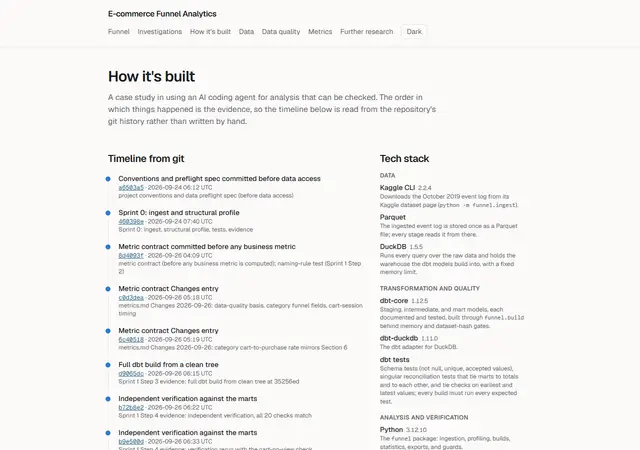
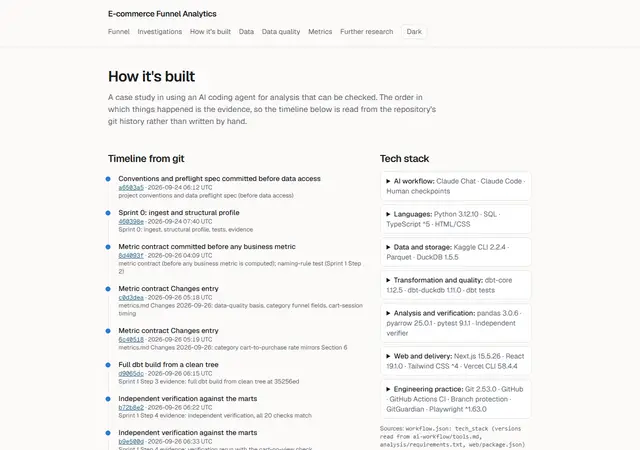
v1.1.5 (PR #21): compact tech-stack column (option b) and seven layers starting with the AI workflow
- one compact rendering at every width: each layer lists its tools with versions; roles on demand
- seven layers in the owner's order, plain names; React and Git added, Python under Languages
- README section regenerated to match; versions still read from their source files
- 1280 px: two columns, stack 594 px beside a timeline of 840 px, no own scroll, pinned while
  the page scrolls, light and dark; 390 px PASS; local smoke 51/51
- records: the owner's decision and verification; correction-log entry (a scratch layout check)

pytest: 234 passed (pytest_exit_code=0)

Changed region(s): [[0.5938, 0.3733, 0.8125, 1.0]]

diff --git a/web/app/how-its-built/page.tsx b/web/app/how-its-built/page.tsx
@@ -58,41 +58,25 @@ export default function HowItsBuiltPage() {
       {/* Owner decision v1.1.5: timeline left and tech stack right (sticky) on wide screens; on narrow screens one
           column, the stack first as a compact summary. Every item and version comes from workflow.json. */}
       <div className="grid gap-10 lg:grid-cols-[minmax(0,1fr)_minmax(0,19rem)] lg:gap-8">
-      <aside id="tech-stack" className="space-y-3 lg:sticky lg:top-6 lg:order-last lg:max-h-[calc(100vh-3rem)] lg:self-start lg:overflow-y-auto lg:pr-2" aria-labelledby="tech-stack-heading">
+      <aside id="tech-stack" className="space-y-3 lg:sticky lg:top-6 lg:order-last lg:self-start" aria-labelledby="tech-stack-heading">
         <h2 id="tech-stack-heading" className="text-xl font-semibold tracking-tight">Tech stack</h2>
-        {/* Narrow screens: one line per layer; roles on demand. */}
-        <div className="space-y-2 text-sm lg:hidden">
+        {/* Owner decision (PR #21, option (b)): one compact column at every width. Each layer lists its tools with
+            versions; each tool's role is available on demand. */}
+        <div className="space-y-2 text-sm">
           {record.tech_stack.groups.map((g) => (
             <details key={g.group} className="rounded-lg border border-line bg-surface px-3 py-2">
               <summary className="cursor-pointer [overflow-wrap:anywhere]">
                 <span className="font-medium">{g.group}:</span>{" "}
                 <span className="text-muted">
-                  {g.items.map((i) => (i.version ? `${i.name.replace(/`/g, "")} ${i.version}` : i.name.replace(/`/g, ""))).join(" · ")}
+                  {g.items.map((i) => (i.version ? `${i.name} ${i.version}` : i.name)).join(" · ")}
                 </span>
               </summary>
               <ul className="mt-2 space-y-1 text-xs text-muted">
                 {g.items.map((i) => (
-                  <li key={i.name}><span className="text-ink"><InlineText text={i.name} /></span>: <InlineText text={i.role} /></li>
+                  <li key={i.name}><span className="text-ink">{i.name}</span>: <InlineText text={i.role} /></li>
                 ))}
               </ul>
             </details>
-          ))}
-        </div>
-        {/* Wide screens: every item with its version and role. */}
-        <div className="hidden space-y-4 lg:block">
-          {record.tech_stack.groups.map((g) => (
-            <div key={g.group} className="space-y-1.5">
-              <h3 className="text-xs font-semibold uppercase tracking-wide text-muted">{g.group}</h3>
-              <ul className="space-y-1.5 text-sm">
-                {g.items.map((i) => (
-                  <li key={i.name}>
-                    <span className="font-medium"><InlineText text={i.name} /></span>
-                    {i.version && <span className="num ml-1.5 text-xs text-muted">{i.version}</span>}
-                    <div className="text-xs leading-snug text-muted"><InlineText text={i.role} /></div>
-                  </li>
-                ))}
-              </ul>
-            </div>
           ))}
         </div>
         <Sources fields={[`workflow.json: tech_stack (versions read from ${record.tech_stack.sources.join(", ")})`]} />

diff --git a/analysis/funnel/tech_stack.py b/analysis/funnel/tech_stack.py
@@ -26,50 +26,52 @@ README_START, README_END = "<!-- tech-stack:start -->", "<!-- tech-stack:end -->
 # (group, name, role, version source): the source is ("requirements", package), ("package.json", package), or
 # ("tools.md", the tool's row name), or None.
 STACK: tuple[tuple[str, str, str, tuple[str, str] | None], ...] = (
-    ("Data", "Kaggle CLI", "Downloads the October 2019 event log from its Kaggle dataset page (`python -m funnel.ingest`).",
-     ("requirements", "kaggle")),
-    ("Data", "Parquet", "The ingested event log is stored once as a Parquet file; every stage reads it from there.", None),
-    ("Data", "DuckDB", "Runs every query over the raw data and holds the warehouse the dbt models build into, with a "
-                       "fixed memory limit.", ("requirements", "duckdb")),
-    ("Transformation and quality", "dbt-core", "Staging, intermediate, and mart models, each documented and tested, "
-                                               "built through `funnel.build` behind memory and dataset-hash gates.",
-     ("requirements", "dbt-core")),
-    ("Transformation and quality", "dbt-duckdb", "The dbt adapter for DuckDB.", ("requirements", "dbt-duckdb")),
-    ("Transformation and quality", "dbt tests", "Schema tests (not null, unique, accepted values), singular "
-                                                "reconciliation tests that tie marts to totals and to each other, and "
-                                                "tie checks on earliest and latest values; every build must run every "
-                                                "expected test.", None),
-    ("Analysis and verification", "Python", "The `funnel` package: ingestion, profiling, builds, statistics, exports, "
-                                            "and guards.", ("tools.md", "Python")),
-    ("Analysis and verification", "pandas", "Small aggregates only; the raw data is too large for it.",
-     ("requirements", "pandas")),
-    ("Analysis and verification", "pyarrow", "Reads and writes the Parquet file.", ("requirements", "pyarrow")),
-    ("Analysis and verification", "pytest", "The commit gate (pytest's own exit code), with guard tests for the naming "
-                                            "rules, row-level data, and drift between exports and their sources.",
-     ("requirements", "pytest")),
-    ("Analysis and verification", "Independent verifier (`funnel.verify`)", "Recomputes every published figure from the "
-                                                                           "Parquet file with separately written SQL, "
-                                                                           "without dbt.", None),
-    ("Web and delivery", "Next.js", "The site, prerendered from the JSON exports at build time.", ("package.json", "next")),
-    ("Web and delivery", "TypeScript", "The site's code.", ("package.json", "typescript")),
-    ("Web and delivery", "Tailwind CSS", "Layout and the light and dark themes.", ("package.json", "tailwindcss")),
-    ("Web and delivery", "Vercel (CLI)", "Production hosting; deploys go through the Vercel CLI, never on merge.",
-     ("tools.md", "Vercel CLI")),
-    ("Engineering practice", "GitHub", "Source, pull requests, and release tags; every change reaches `main` through a "
-                                       "pull request.", None),
-    ("Engineering practice", "GitHub Actions CI", "Required checks on every pull request: Python tests, the web build, "
-                                                  "and a documentation link check.", None),
-    ("Engineering practice", "Branch protection", "On `main`: pull request required, checks required and up to date, "
-                                                  "enforced for admins, no force pushes.", None),
-    ("Engineering practice", "GitGuardian", "Secret scanning on every pull request.", None),
-    ("Engineering practice", "Playwright", "Screenshots at phone width in both themes, failing on any horizontal "
-                                           "overflow.", ("package.json", "playwright")),
+    # Order and names: owner decision for PR #21 (v1.1.5), starting with the AI workflow.
     ("AI workflow", "Claude Chat", "The command center: planning, framing, and challenging the work with the project "
                                    "owner.", None),
     ("AI workflow", "Claude Code", "The executor: carries out each step in the repository under binding rules and stops "
                                    "at every checkpoint.", None),
     ("AI workflow", "Human checkpoints", "The project owner decides scope, contract changes, and merges, and signs off "
                                          "every published claim.", None),
+    ("Languages", "Python", "The analysis package: ingestion, profiling, builds, statistics, exports, and guards.",
+     ("tools.md", "Python")),
+    ("Languages", "SQL", "Every query over the data, in DuckDB, and every dbt model.", None),
+    ("Languages", "TypeScript", "The site's code.", ("package.json", "typescript")),
+    ("Languages", "HTML/CSS", "The site's markup and styles.", None),
+    ("Data and storage", "Kaggle CLI", "Downloads the October 2019 event log from its Kaggle dataset page.",
+     ("requirements", "kaggle")),
+    ("Data and storage", "Parquet", "The ingested event log is stored once as a Parquet file; every stage reads it from "
+                                    "there.", None),
+    ("Data and storage", "DuckDB", "Runs every query over the raw data and holds the warehouse the dbt models build into, "
+                                   "with a fixed memory limit.", ("requirements", "duckdb")),
+    ("Transformation and quality", "dbt-core", "Staging, intermediate, and mart models, each documented and tested, "
+                                               "built behind memory and dataset-hash gates.", ("requirements", "dbt-core")),
+    ("Transformation and quality", "dbt-duckdb", "The dbt adapter for DuckDB.", ("requirements", "dbt-duckdb")),
+    ("Transformation and quality", "dbt tests", "Schema tests (not null, unique, accepted values), reconciliation tests "
+                                                "that tie tables to totals and to each other, and checks on earliest and "
+                                                "latest values; every build must run every expected test.", None),
+    ("Analysis and verification", "pandas", "Small aggregates only; the raw data is too large for it.",
+     ("requirements", "pandas")),
+    ("Analysis and verification", "pyarrow", "Reads and writes the Parquet file.", ("requirements", "pyarrow")),
+    ("Analysis and verification", "pytest", "The commit gate, with guard tests for the naming rules, row-level data, and "
+                                            "drift between exports and their sources.", ("requirements", "pytest")),
+    ("Analysis and verification", "Independent verifier", "Recomputes every published figure from the Parquet file with "
+                                                          "separately written SQL, without dbt.", None),
+    ("Web and delivery", "Next.js", "The site, prerendered from the JSON exports at build time.", ("package.json", "next")),
+    ("Web and delivery", "React", "The site's components.", ("package.json", "react")),
+    ("Web and delivery", "Tailwind CSS", "Layout and the light and dark themes.", ("package.json", "tailwindcss")),
+    ("Web and delivery", "Vercel CLI", "Production hosting; deploys go through the Vercel CLI, never on merge.",
+     ("tools.md", "Vercel CLI")),
+    ("Engineering practice", "Git", "Version control; history is never rewritten.", ("tools.md", "git")),
+    ("Engineering practice", "GitHub", "Source, pull requests, and release tags; every change reaches main through a "
+                                       "pull request.", None),
+    ("Engineering practice", "GitHub Actions CI", "Required checks on every pull request: Python tests, the web build, "
+                                                  "and a documentation link check.", None),
+    ("Engineering practice", "Branch protection", "On main: pull request required, checks required and up to date, "
+                                                  "enforced for admins, no force pushes.", None),
+    ("Engineering practice", "GitGuardian", "Secret scanning on every pull request.", None),
+    ("Engineering practice", "Playwright", "Screenshots at phone width in both themes, failing on any horizontal "
+                                           "overflow.", ("package.json", "playwright")),
 )
 GROUPS = tuple(dict.fromkeys(g for g, *_ in STACK))
 

diff --git a/analysis/tests/test_tech_stack.py b/analysis/tests/test_tech_stack.py
@@ -7,8 +7,9 @@ import json
 from funnel import tech_stack as ts
 from funnel.export import WEB_DATA
 
-OWNER_GROUPS = ["Data", "Transformation and quality", "Analysis and verification", "Web and delivery",
-                "Engineering practice", "AI workflow"]
+# Owner decision for PR #21 (v1.1.5): seven layers, starting with the AI workflow.
+OWNER_GROUPS = ["AI workflow", "Languages", "Data and storage", "Transformation and quality",
+                "Analysis and verification", "Web and delivery", "Engineering practice"]
 
 
 def _committed() -> dict:
@@ -33,9 +34,10 @@ def test_committed_stack_is_the_current_resolution_in_the_owner_groups():
     assert committed == json.loads(json.dumps(ts.resolve())), "refresh: python -m funnel.export --only workflow.json"
     assert [g["group"] for g in committed["groups"]] == OWNER_GROUPS
     names = {i["name"] for g in committed["groups"] for i in g["items"]}
-    assert {"Kaggle CLI", "Parquet", "DuckDB", "dbt-core", "dbt-duckdb", "pandas", "pyarrow", "pytest", "Next.js",
-            "TypeScript", "Tailwind CSS", "GitHub Actions CI", "Branch protection", "GitGuardian", "Playwright",
-            "Claude Chat", "Claude Code", "Human checkpoints"} <= names
+    assert {"Claude Chat", "Claude Code", "Human checkpoints", "Python", "SQL", "TypeScript", "HTML/CSS", "Kaggle CLI",
+            "Parquet", "DuckDB", "dbt-core", "dbt-duckdb", "dbt tests", "pandas", "pyarrow", "pytest",
+            "Independent verifier", "Next.js", "React", "Tailwind CSS", "Vercel CLI", "Git", "GitHub",
+            "GitHub Actions CI", "Branch protection", "GitGuardian", "Playwright"} == names
     assert all(i["role"] for g in committed["groups"] for i in g["items"])
 
 

diff --git a/README.md b/README.md
@@ -50,46 +50,53 @@ Every number on the site is read from JSON exports written by code, each carryin
 
 Each tool with its role in this project. Versions are read by `python -m funnel.export --only workflow.json` from `analysis/requirements.txt`, `web/package.json`, and `ai-workflow/tools.md`; a test fails if any differs from its source. The same list is on the [How it's built](https://ecommercefunnel-analytics.vercel.app/how-its-built) page.
 
-**Data**
-
-- **Kaggle CLI** `2.2.4`: Downloads the October 2019 event log from its Kaggle dataset page (`python -m funnel.ingest`).
-- **Parquet**: The ingested event log is stored once as a Parquet file; every stage reads it from there.
-- **DuckDB** `1.5.5`: Runs every query over the raw data and holds the warehouse the dbt models build into, with a fixed memory limit.
-
-**Transformation and quality**
-
-- **dbt-core** `1.12.5`: Staging, intermediate, and mart models, each documented and tested, built through `funnel.build` behind memory and dataset-hash gates.
-- **dbt-duckdb** `1.11.0`: The dbt adapter for DuckDB.
-- **dbt tests**: Schema tests (not null, unique, accepted values), singular reconciliation tests that tie marts to totals and to each other, and tie checks on earliest and latest values; every build must run every expected test.
-
-**Analysis and verification**
-
-- **Python** `3.12.10`: The `funnel` package: ingestion, profiling, builds, statistics, exports, and guards.
-- **pandas** `3.0.6`: Small aggregates only; the raw data is too large for it.
-- **pyarrow** `25.0.1`: Reads and writes the Parquet file.
-- **pytest** `9.1.1`: The commit gate (pytest's own exit code), with guard tests for the naming rules, row-level data, and drift between exports and their sources.
-- **Independent verifier (`funnel.verify`)**: Recomputes every published figure from the Parquet file with separately written SQL, without dbt.
-
-**Web and delivery**
-
-- **Next.js** `15.5.26`: The site, prerendered from the JSON exports at build time.
-- **TypeScript** `^5`: The site's code.
-- **Tailwind CSS** `^4`: Layout and the light and dark themes.
-- **Vercel (CLI)** `58.4.4`: Production hosting; deploys go through the Vercel CLI, never on merge.
-
-**Engineering practice**
-
-- **GitHub**: Source, pull requests, and release tags; every change reaches `main` through a pull request.
-- **GitHub Actions CI**: Required checks on every pull request: Python tests, the web build, and a documentation link check.
-- **Branch protection**: On `main`: pull request required, checks required and up to date, enforced for admins, no force pushes.
-- **GitGuardian**: Secret scanning on every pull request.
-- **Playwright** `^1.63.0`: Screenshots at phone width in both themes, failing on any horizontal overflow.
-
 **AI workflow**
 
 - **Claude Chat**: The command center: planning, framing, and challenging the work with the project owner.
 - **Claude Code**: The executor: carries out each step in the repository under binding rules and stops at every checkpoint.
 - **Human checkpoints**: The project owner decides scope, contract changes, and merges, and signs off every published claim.
+
+**Languages**
+
+- **Python** `3.12.10`: The analysis package: ingestion, profiling, builds, statistics, exports, and guards.
+- **SQL**: Every query over the data, in DuckDB, and every dbt model.
+- **TypeScript** `^5`: The site's code.
+- **HTML/CSS**: The site's markup and styles.
+
+**Data and storage**
+
+- **Kaggle CLI** `2.2.4`: Downloads the October 2019 event log from its Kaggle dataset page.
+- **Parquet**: The ingested event log is stored once as a Parquet file; every stage reads it from there.
+- **DuckDB** `1.5.5`: Runs every query over the raw data and holds the warehouse the dbt models build into, with a fixed memory limit.
+
+**Transformation and quality**
+
+- **dbt-core** `1.12.5`: Staging, intermediate, and mart models, each documented and tested, built behind memory and dataset-hash gates.
+- **dbt-duckdb** `1.11.0`: The dbt adapter for DuckDB.
+- **dbt tests**: Schema tests (not null, unique, accepted values), reconciliation tests that tie tables to totals and to each other, and checks on earliest and latest values; every build must run every expected test.
+
+**Analysis and verification**
+
+- **pandas** `3.0.6`: Small aggregates only; the raw data is too large for it.
+- **pyarrow** `25.0.1`: Reads and writes the Parquet file.
+- **pytest** `9.1.1`: The commit gate, with guard tests for the naming rules, row-level data, and drift between exports and their sources.
+- **Independent verifier**: Recomputes every published figure from the Parquet file with separately written SQL, without dbt.
+
+**Web and delivery**
+
+- **Next.js** `15.5.26`: The site, prerendered from the JSON exports at build time.
+- **React** `19.1.0`: The site's components.
+- **Tailwind CSS** `^4`: Layout and the light and dark themes.
+- **Vercel CLI** `58.4.4`: Production hosting; deploys go through the Vercel CLI, never on merge.
+
+**Engineering practice**
+
+- **Git** `2.53.0`: Version control; history is never rewritten.
+- **GitHub**: Source, pull requests, and release tags; every change reaches main through a pull request.
+- **GitHub Actions CI**: Required checks on every pull request: Python tests, the web build, and a documentation link check.
+- **Branch protection**: On main: pull request required, checks required and up to date, enforced for admins, no force pushes.
+- **GitGuardian**: Secret scanning on every pull request.
+- **Playwright** `^1.63.0`: Screenshots at phone width in both themes, failing on any horizontal overflow.
 <!-- tech-stack:end -->
 
 ## Reproduce

diff --git a/ai-workflow/sprint-3-verification.md b/ai-workflow/sprint-3-verification.md
@@ -21,6 +21,7 @@ Every decision below was made by the project owner (Eddy Mkwambe). Claude Code c
 | 2026-09-26 | Owner decision | Formalize the provenance convention in CLAUDE.md: a message counts as the owner's own decision when it begins with "My decision:" or "My H&lt;n&gt; decision:" (or the owner confirms in their own words); anything else pasted is treated as a draft until the owner confirms. | Owner message in the Claude Code session, 2026-09-26, verbatim: "Also formalize the provenance convention in CLAUDE.md in the Step 3 PR: a message counts as my own decision when it begins with "My decision:" or "My H&lt;n&gt; decision:" (or I confirm in my own words); anything else pasted is treated as a draft until I confirm." `CLAUDE.md`, "Owner decisions: provenance", in the Step 3 PR |
 | 2026-09-26 | H8 | PR #16 merged by the owner. | Owner message beginning "My decision:" (it read "mergedAt <timestamp>"). Claude Code found the PR still OPEN at the first check and did not start Step 4; the second check gave `{"state":"MERGED","mergedAt":"2026-09-27T01:25:35Z","merge":"48b65ebf657f5796d82df08f943281fbf315f2bb"}` |
 | 2026-09-26 | H6 | Merged branch `sprint-3/step1-contract` deleted (`git branch -d` and `git push origin --delete`, no `-D`). | Owner message beginning "My decision:". Carried out by Claude Code: PR #15 verified MERGED; the head `8d10d7b` is an ancestor of `origin/main` locally and remotely; `git push origin --delete` gave "[deleted]", and `git branch -d` gave "Deleted branch sprint-3/step1-contract (was 8d10d7b)" with exit 0. `git ls-remote --heads origin sprint-3/step1-contract` returns nothing |
+| 2026-09-28 | Owner decision (v1.1.5, PR #21) | (1) Layout option (b): on desktop, the tech stack is a compact column beside the git timeline, showing layers and tools with versions, each item's role available on demand, so the column fits without its own scrolling; narrow screens keep the behavior as built. (2) Layers in this order, with plain, recognizable names: AI workflow; Languages (Python, SQL, TypeScript, HTML/CSS); Data and storage; Transformation and quality; Analysis and verification (pandas, pyarrow, pytest, the independent verifier); Web and delivery (Next.js, React, Tailwind, Vercel); Engineering practice (Git, GitHub, GitHub Actions CI, branch protection, GitGuardian, Playwright). Versions still generated from their source files; the README section to match. PR #20 was already merged (2026-09-28T00:26:09Z); verify PR #21 contains only the v1.1.5 changes. | Owner message beginning "My decision", 2026-09-28. Verified: `gh pr view 20` MERGED (`99db4d1`); PR #21's merge base with `main` is `3f72394` (PR #20's head), and against it PR #21 changes 18 files, all v1.1.5. Carried out: 27 items in the seven layers; the Vercel item is named "Vercel CLI" because its version is the CLI's. Measured at 1280 × 900: two columns; the stack is 594 px beside a timeline of 840 px, with no scrolling of its own; it stays pinned at the top while the page scrolls through the timeline region; no overflow; light and dark |
 | 2026-09-27 | Owner decision (v1.1.5) | Patch v1.1.5, before the next H9: a "Tech stack" section as a column beside the git timeline on `/how-its-built` (first check whether any page already lists the stack); content grouped by layer with each item's role; versions generated by the exporter from `requirements.txt`, `package.json`, and `tools.md`, never typed, with a test that fails on any difference; a matching README section. Layout: desktop two columns, the stack sticky while the timeline scrolls; narrow screens one column, the stack first as a compact summary. One PR; after the merge: deploy, smoke, tag v1.1.5; then H9. | Owner message beginning "My decision:", 2026-09-27. Check: no page listed the stack (only prose mentions in the README introduction and the `/how-its-built` verification tile). **Layout conflict, reported to the owner:** at 1280 × 900 the timeline list is 796 px tall, shorter than one screen, while the full stack is 1,634 px, so the stack cannot be "sticky while the timeline scrolls". As built, the stack column is capped at the screen height with its own vertical scroll, beside the timeline (measured: two columns, no page overflow) |
 | 2026-09-27 | H9 | on 2026-09-27 I reviewed the live v1.1.4 home page (findings F1–F4), Further research, and How it's built, on desktop and at 390 px. Findings F1–F4 are signed off at their ledger tiers, and the questions page and closing content are approved as published. | Owner message beginning "My H9 sign-off:", 2026-09-27. Recorded in `ai-workflow/claim-ledger.md` rows C16–C20 (Closing section) |
 | 2026-09-27 | H8 | PR #19 (`workflow.json` refresh) merged by the owner via gh. | Owner message: "PR #19 merged by me via gh (state MERGED, mergedAt 2026-09-27T23:26:18Z)". Verified by Claude Code with `gh pr view 19`: `{"state":"MERGED","mergedAt":"2026-09-27T23:26:18Z","merge":"7755e9b75b0a295d5952ff3cec640fd0dfd794d7"}`; `main`'s `workflow.json` has 61 entries, including Unattributed second actor 1 and CI 2, with a clean manifest from `dcd5619`. Then deployed to production (`dpl_9dyLGJK2eMt8tVBTP4UCynJey94B`, from `main` at `7755e9b`); the production smoke passed 49/49 (smoke exit code 0; `ai-workflow/evidence/sprint-3/smoke_production_v1.1.4.txt`); tag `v1.1.4` on `7755e9b`, pushed |

diff --git a/ai-workflow/correction-log.md b/ai-workflow/correction-log.md
@@ -550,6 +550,14 @@ All fixes below ship in the Sprint 0 evidence commit that adds this log's entrie
 - **Fix:** the comparison normalizes line endings. Ships in this commit.
 - **Guard added:** none new; the test still fails on any content difference.
 
+**2026-09-28 · v1.1.5 · A desktop layout check scrolled too little to test pinning**
+- **Origin:** Claude Code (a scratch Playwright check of `/how-its-built` at 1280 px)
+- **What was produced:** a check that scrolled by the smaller of the stack's travel room and the distance to its pinning point, then tested whether the stack was pinned.
+- **What was wrong:** the stack only pins once its top reaches the sticky offset, so the capped scroll never reached the pinned range, and the check reported "not pinned" for a layout that was.
+- **How it was caught:** executor self-review of the check's own numbers: the stack's top moved by exactly the scrolled distance and stopped short of the sticky offset.
+- **Fix:** the check scrolls to the middle of the pinned range (the distance to the sticky offset plus half the travel room); rerun, it passes in both themes. Scratch code; no committed file changed.
+- **Guard added:** none automated (scratch code); the check prints the stack's top before and after scrolling.
+
 **2026-09-24 · Sprint 0 · Checks run with no error found**
 - **Origin:** n/a
 - **Checks that ran clean:** the Step 0 preflight gates, run after the disk-space stop; Kaggle token authentication with no `kaggle.json` available; downloaded file size against the Kaggle listing; three independent row counts; CSV-to-Parquet type preservation; the raw `event_time` format and round trip; the dataset hash gate; the metric-lock guard on the real profile and on injected leaks; and the row-level data scan of committable files.

diff --git a/CHANGELOG.md b/CHANGELOG.md
@@ -7,7 +7,7 @@ Entries up to v1.0.1 were reconstructed in Sprint 2 from the git history. Figure
 ## [Unreleased]
 
 ### Added
-- Tech stack (v1.1.5, owner decision 2026-09-27): six layers, each item with its role in this project, on `/how-its-built` beside the git timeline and in the README. Versions are written by `funnel.export --only workflow.json` from `analysis/requirements.txt`, `web/package.json`, and `ai-workflow/tools.md`, and `test_tech_stack.py` fails if one differs from its source. On narrow screens the stack comes first as a compact summary.
+- Tech stack (v1.1.5, owner decisions 2026-09-27): seven layers, starting with the AI workflow (AI workflow, Languages, Data and storage, Transformation and quality, Analysis and verification, Web and delivery, Engineering practice), each tool with its role in this project, on `/how-its-built` beside the git timeline (a compact column at every width: layers and tools with versions, roles on demand) and in the README. Versions are written by `funnel.export --only workflow.json` from `analysis/requirements.txt`, `web/package.json`, and `ai-workflow/tools.md`, and `test_tech_stack.py` fails if one differs from its source. On narrow screens the stack comes before the timeline.
 - Owner H9 sign-off (2026-09-27) on the live v1.1.4 home page findings F1–F4, the Further research page, the closing content, and How it's built: claim-ledger rows C16–C20.
 
 ## [1.1.4] — 2026-09-27
